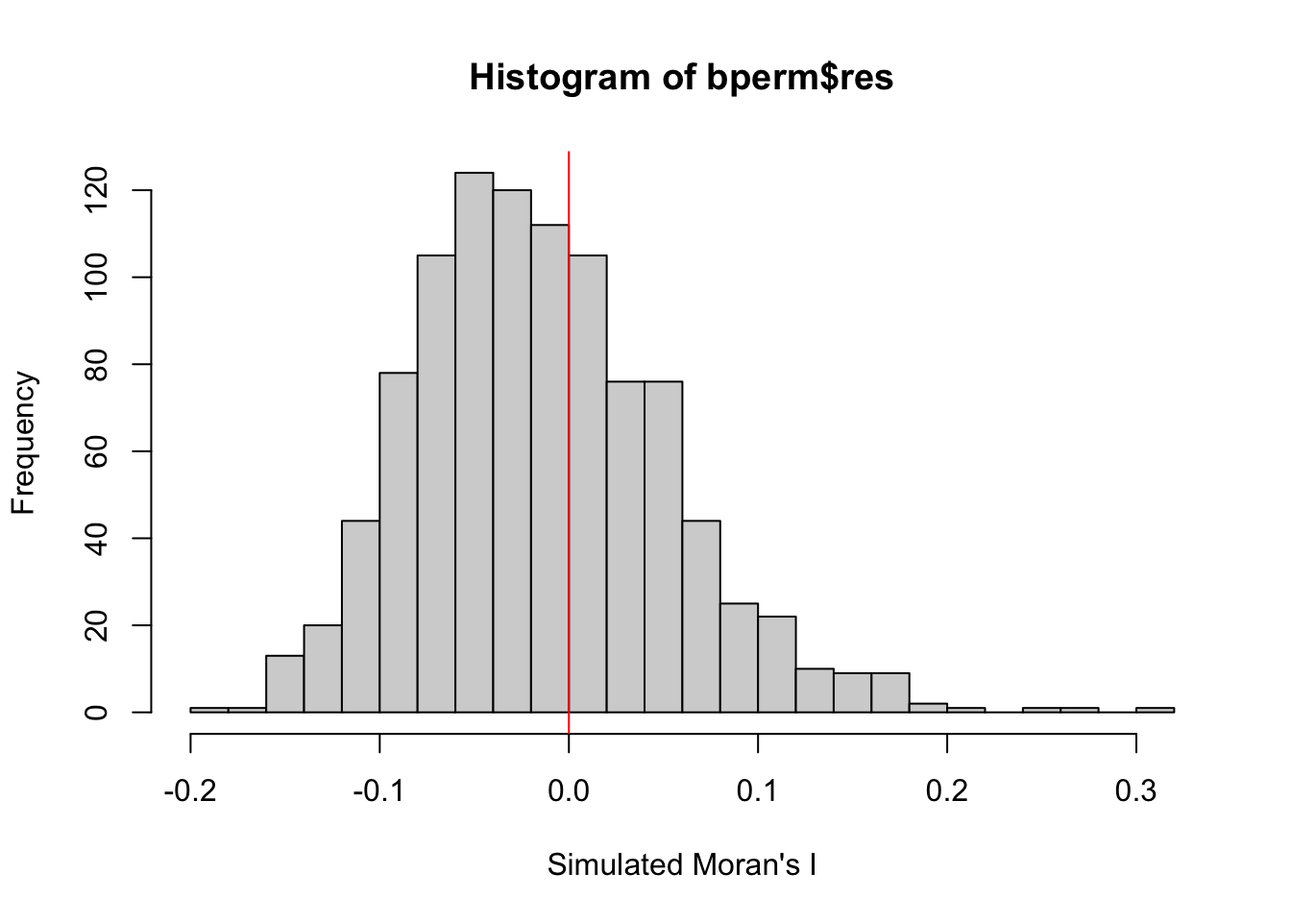
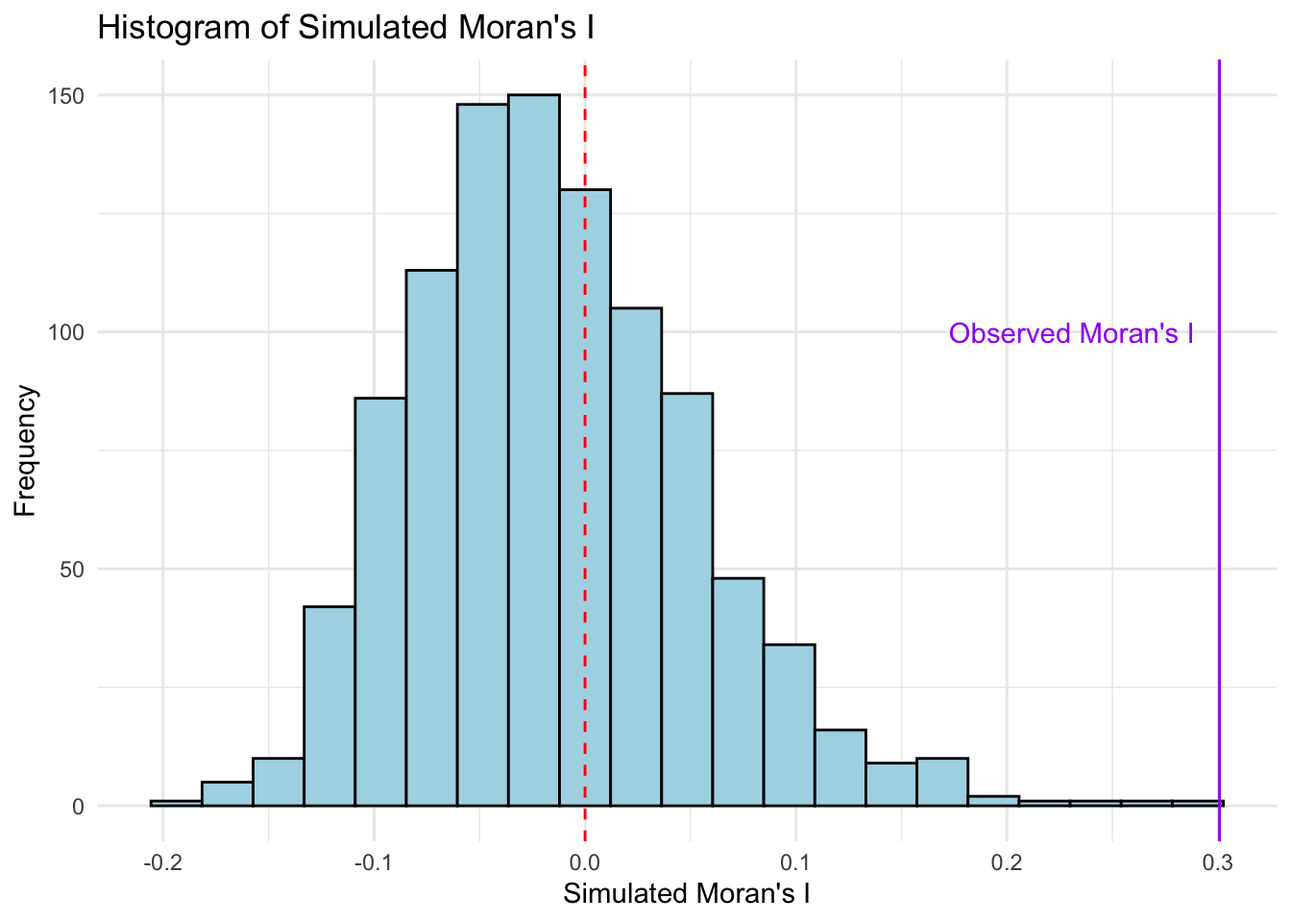
Tidied up the write-up for Hands-on Ex 5A

diff --git a/_site/Hands-on_Ex/Hands-on_Ex05/Hands-on_Ex05A.html b/_site/Hands-on_Ex/Hands-on_Ex05/Hands-on_Ex05A.html
@@ -225,7 +225,13 @@ pre > code.sourceCode > span > a:first-child::before { text-decoration: underlin
   <li><a href="#overview" id="toc-overview" class="nav-link active" data-scroll-target="#overview">1. Overview</a></li>
   <li><a href="#importing-transforming-data" id="toc-importing-transforming-data" class="nav-link" data-scroll-target="#importing-transforming-data">2. Importing &amp; Transforming Data</a></li>
   <li><a href="#geovisualisation-choropleth-map" id="toc-geovisualisation-choropleth-map" class="nav-link" data-scroll-target="#geovisualisation-choropleth-map">3. Geovisualisation &amp; Choropleth Map</a></li>
-  <li><a href="#global-measures-of-spatial-autocorrelation" id="toc-global-measures-of-spatial-autocorrelation" class="nav-link" data-scroll-target="#global-measures-of-spatial-autocorrelation">4. Global Measures of Spatial Autocorrelation</a></li>
+  <li><a href="#preparing-for-global-measures-of-spatial-autocorrelation" id="toc-preparing-for-global-measures-of-spatial-autocorrelation" class="nav-link" data-scroll-target="#preparing-for-global-measures-of-spatial-autocorrelation">4. Preparing for Global Measures of Spatial Autocorrelation</a></li>
+  <li><a href="#gmsa-morans-i" id="toc-gmsa-morans-i" class="nav-link" data-scroll-target="#gmsa-morans-i">5. GMSA: Moran’s I</a></li>
+  <li><a href="#gmsa-gearys-c" id="toc-gmsa-gearys-c" class="nav-link" data-scroll-target="#gmsa-gearys-c">6. GMSA: Geary’s C</a></li>
+  <li><a href="#spatial-correlogram" id="toc-spatial-correlogram" class="nav-link" data-scroll-target="#spatial-correlogram">7. Spatial Correlogram</a>
+  <ul class="collapse">
+  <li><a href="#gearys-c-correlogram" id="toc-gearys-c-correlogram" class="nav-link" data-scroll-target="#gearys-c-correlogram">2. Geary’s C correlogram</a></li>
+  </ul></li>
   </ul>
 </nav>
     </div>
@@ -270,8 +276,10 @@ pre > code.sourceCode > span > a:first-child::before { text-decoration: underlin
 
 <section id="overview" class="level1">
 <h1>1. Overview</h1>
-<p>This exercise introduces methods for computing Global Measures of Spatial Autocorrelation (GMSA).</p>
-<p>A key R package for computing GMSA is the <code>spdep</code> package.</p>
+<p>This exercise introduces methods for computing <strong>Global Measures of Spatial Autocorrelation (GMSA).</strong> GMSA provides a summary of the overall spatial patterns within a dataset, showing whether similar values cluster together or if there is a random distribution across the entire map.</p>
+<p>Spatial autocorrelation measures how one location’s data is related to nearby locations. With global measures, we look at the entire dataset as a whole, asking questions like: Are similar values (high or low) generally located near each other? Or are values spread out randomly? GMSA gives us a single statistic that answers these questions, giving insight into the spatial structure of our data.</p>
+<p>One common example is Moran’s I, a widely used GMSA method. It provides a value that indicates whether there is clustering (positive autocorrelation), a dispersed pattern (negative autocorrelation), or no clear pattern (no autocorrelation). These global measures help us identify broad spatial trends, which we can later break down into more detailed local measures.</p>
+<p>A key R package for GMSA analysis is the <code>spdep</code> package.</p>
 <div class="cell">
 <div class="sourceCode cell-code" id="cb1"><pre class="sourceCode r code-with-copy"><code class="sourceCode r"><span id="cb1-1"><a href="#cb1-1" aria-hidden="true" tabindex="-1"></a>pacman<span class="sc">::</span><span class="fu">p_load</span>(sf, spdep, tmap, tidyverse)</span></code><button title="Copy to Clipboard" class="code-copy-button"><i class="bi"></i></button></pre></div>
 </div>
@@ -376,7 +384,7 @@ $ geometry  &lt;POLYGON [°]&gt; POLYGON ((112.0625 29.75523..., POLYGON ((112.2
 </section>
 <section id="geovisualisation-choropleth-map" class="level1">
 <h1>3. Geovisualisation &amp; Choropleth Map</h1>
-<p>A basemap and a choropleth map displaying GDP per capita are plotted.</p>
+<p>A basemap and a choropleth map showing the distribution of GDP per capita are plotted.</p>
 <div class="cell">
 <div class="sourceCode cell-code" id="cb11"><pre class="sourceCode r code-with-copy"><code class="sourceCode r"><span id="cb11-1"><a href="#cb11-1" aria-hidden="true" tabindex="-1"></a>equal <span class="ot">&lt;-</span> <span class="fu">tm_shape</span>(hunan) <span class="sc">+</span></span>
 <span id="cb11-2"><a href="#cb11-2" aria-hidden="true" tabindex="-1"></a>  <span class="fu">tm_fill</span>(<span class="st">"GDPPC"</span>,</span>
@@ -401,8 +409,15 @@ $ geometry  &lt;POLYGON [°]&gt; POLYGON ((112.0625 29.75523..., POLYGON ((112.2
 </div>
 </div>
 </section>
-<section id="global-measures-of-spatial-autocorrelation" class="level1">
-<h1>4. Global Measures of Spatial Autocorrelation</h1>
+<section id="preparing-for-global-measures-of-spatial-autocorrelation" class="level1">
+<h1>4. Preparing for Global Measures of Spatial Autocorrelation</h1>
+<p>Before we can compute global spatial autocorrelation statistics, we need to perform the following steps:</p>
+<div class="tabset-margin-container"></div><div class="panel-tabset">
+<ul class="nav nav-tabs" role="tablist"><li class="nav-item" role="presentation"><a class="nav-link active" id="tabset-2-1-tab" data-bs-toggle="tab" data-bs-target="#tabset-2-1" role="tab" aria-controls="tabset-2-1" aria-selected="true">1. Compute contiguity spatial weights</a></li><li class="nav-item" role="presentation"><a class="nav-link" id="tabset-2-2-tab" data-bs-toggle="tab" data-bs-target="#tabset-2-2" role="tab" aria-controls="tabset-2-2" aria-selected="false">2. Compute row-standardised weights matrix</a></li></ul>
+<div class="tab-content">
+<div id="tabset-2-1" class="tab-pane active" role="tabpanel" aria-labelledby="tabset-2-1-tab">
+<p>Spatial weights define the neighborhood relationships between geographical units (e.g., counties) in the study area. In the code chunk below, the <code>poly2nb()</code> function from the <code>spdep</code> package is used to compute contiguity-based weight matrices for the study area. This function creates a list of neighboring regions by identifying those that share common boundaries. The following computes the Queen contiguity weight matrix.</p>
+<p>The summary report indicates that there are 88 area units in Hunan. The most connected unit has 11 neighboring units, while two units have only one neighbor each.</p>
 <div class="cell">
 <div class="sourceCode cell-code" id="cb12"><pre class="sourceCode r code-with-copy"><code class="sourceCode r"><span id="cb12-1"><a href="#cb12-1" aria-hidden="true" tabindex="-1"></a>wm_q <span class="ot">&lt;-</span> <span class="fu">poly2nb</span>(hunan, </span>
 <span id="cb12-2"><a href="#cb12-2" aria-hidden="true" tabindex="-1"></a>                <span class="at">queen=</span><span class="cn">TRUE</span>)</span>
@@ -423,7 +438,9 @@ Link number distribution:
 85 with 11 links</code></pre>
 </div>
 </div>
-<p>9.4.2</p>
+</div>
+<div id="tabset-2-2" class="tab-pane" role="tabpanel" aria-labelledby="tabset-2-2-tab">
+<p>Next, we need to assign weights to each neighboring polygon. In this case, we will use equal weights (style = “W”), meaning each neighbor receives a weight of 1/(no. of neighbors). These weights are then used to calculate the weighted sum of income values from neighboring counties. While this method is straightforward and intuitive, it has a limitation: polygons on the edges of the study area may have fewer neighbors, which can lead to over- or under-estimation of spatial autocorrelation. For simplicity, we’ll use the “W” option here, but it’s worth noting that more robust alternatives, such as style = “B”, are available.</p>
 <div class="cell">
 <div class="sourceCode cell-code" id="cb14"><pre class="sourceCode r code-with-copy"><code class="sourceCode r"><span id="cb14-1"><a href="#cb14-1" aria-hidden="true" tabindex="-1"></a>rswm_q <span class="ot">&lt;-</span> <span class="fu">nb2listw</span>(wm_q, </span>
 <span id="cb14-2"><a href="#cb14-2" aria-hidden="true" tabindex="-1"></a>                   <span class="at">style=</span><span class="st">"W"</span>, </span>
@@ -443,7 +460,18 @@ Weights constants summary:
 W 88 7744 88 37.86334 365.9147</code></pre>
 </div>
 </div>
-<p>9.5.1</p>
+</div>
+</div>
+</div>
+</section>
+<section id="gmsa-morans-i" class="level1">
+<h1>5. GMSA: Moran’s I</h1>
+<p>In this section, we will perform Moran’s I statistical testing.</p>
+<div class="tabset-margin-container"></div><div class="panel-tabset">
+<ul class="nav nav-tabs" role="tablist"><li class="nav-item" role="presentation"><a class="nav-link active" id="tabset-3-1-tab" data-bs-toggle="tab" data-bs-target="#tabset-3-1" role="tab" aria-controls="tabset-3-1" aria-selected="true">1. Moran’s I test</a></li><li class="nav-item" role="presentation"><a class="nav-link" id="tabset-3-2-tab" data-bs-toggle="tab" data-bs-target="#tabset-3-2" role="tab" aria-controls="tabset-3-2" aria-selected="false">2. Monte Carlo Moran’s I test</a></li><li class="nav-item" role="presentation"><a class="nav-link" id="tabset-3-3-tab" data-bs-toggle="tab" data-bs-target="#tabset-3-3" role="tab" aria-controls="tabset-3-3" aria-selected="false">3. Visualising Monte Carlo Moran’s I</a></li></ul>
+<div class="tab-content">
+<div id="tabset-3-1" class="tab-pane active" role="tabpanel" aria-labelledby="tabset-3-1-tab">
+<p>We conduct Moran’s I statistical test using the <code>moran.test()</code> function from the <code>spdep</code> package. From the results, Moran’s I is 0.30, which is greater than 0, indicating positive spatial autocorrelation. Since the p-value is less than .001, the result is statistically significant. This means that the observations are not randomly distributed but are spatially clustered, with similar values tending to be near each other.</p>
 <div class="cell">
 <div class="sourceCode cell-code" id="cb16"><pre class="sourceCode r code-with-copy"><code class="sourceCode r"><span id="cb16-1"><a href="#cb16-1" aria-hidden="true" tabindex="-1"></a><span class="fu">moran.test</span>(hunan<span class="sc">$</span>GDPPC, </span>
 <span id="cb16-2"><a href="#cb16-2" aria-hidden="true" tabindex="-1"></a>           <span class="at">listw=</span>rswm_q, </span>
@@ -463,10 +491,14 @@ Moran I statistic       Expectation          Variance
       0.300749970      -0.011494253       0.004348351 </code></pre>
 </div>
 </div>
-<p>9.5.2</p>
+</div>
+<div id="tabset-3-2" class="tab-pane" role="tabpanel" aria-labelledby="tabset-3-2-tab">
+<p>The Monte Carlo Moran’s I test is used to assess the significance of spatial autocorrelation by comparing the observed Moran’s I to a distribution of Moran’s I values generated through random permutations. It helps determine whether the observed spatial pattern is significantly different from what could be expected under randomness.</p>
+<p>A permutation test for Moran’s I statistic conducted using <code>moran.mc()</code> function from the <code>spdep</code> package, with 1,000 simulations. This Monte Carlo approach generates a distribution of Moran’s I values by randomly shuffling the spatial data and recalculating Moran’s I for each simulation. It allows us to compare the observed Moran’s I against this randomized distribution to assess its significance.</p>
+<p>From the results, the observed Moran’s I statistic is 0.30, which is greater than 0, indicating positive spatial autocorrelation. Since the p-value is 0.001, the result is statistically significant. This means that the observed spatial pattern is unlikely to have occurred by chance; there is spatial clustering, where similar values tend to be located near each other.</p>
 <div class="cell">
 <div class="sourceCode cell-code" id="cb18"><pre class="sourceCode r code-with-copy"><code class="sourceCode r"><span id="cb18-1"><a href="#cb18-1" aria-hidden="true" tabindex="-1"></a><span class="fu">set.seed</span>(<span class="dv">1234</span>)</span>
-<span id="cb18-2"><a href="#cb18-2" aria-hidden="true" tabindex="-1"></a>bperm<span class="ot">=</span> <span class="fu">moran.mc</span>(hunan<span class="sc">$</span>GDPPC, </span>
+<span id="cb18-2"><a href="#cb18-2" aria-hidden="true" tabindex="-1"></a>bperm <span class="ot">=</span> <span class="fu">moran.mc</span>(hunan<span class="sc">$</span>GDPPC, </span>
 <span id="cb18-3"><a href="#cb18-3" aria-hidden="true" tabindex="-1"></a>                <span class="at">listw=</span>rswm_q, </span>
 <span id="cb18-4"><a href="#cb18-4" aria-hidden="true" tabindex="-1"></a>                <span class="at">nsim=</span><span class="dv">999</span>, </span>
 <span id="cb18-5"><a href="#cb18-5" aria-hidden="true" tabindex="-1"></a>                <span class="at">zero.policy =</span> <span class="cn">TRUE</span>, </span>
@@ -484,7 +516,9 @@ statistic = 0.30075, observed rank = 1000, p-value = 0.001
 alternative hypothesis: greater</code></pre>
 </div>
 </div>
-<p>9.5.3</p>
+</div>
+<div id="tabset-3-3" class="tab-pane" role="tabpanel" aria-labelledby="tabset-3-3-tab">
+<p>It is good practice to examine the simulated Moran’s I test statistics in greater detail. This can be done by plotting the distribution of these values as a histogram.</p>
 <div class="cell">
 <div class="sourceCode cell-code" id="cb20"><pre class="sourceCode r code-with-copy"><code class="sourceCode r"><span id="cb20-1"><a href="#cb20-1" aria-hidden="true" tabindex="-1"></a><span class="fu">mean</span>(bperm<span class="sc">$</span>res[<span class="dv">1</span><span class="sc">:</span><span class="dv">999</span>])</span></code><button title="Copy to Clipboard" class="code-copy-button"><i class="bi"></i></button></pre></div>
 <div class="cell-output cell-output-stdout">
@@ -505,17 +539,33 @@ alternative hypothesis: greater</code></pre>
 </div>
 </div>
 <div class="cell">
-<div class="sourceCode cell-code" id="cb26"><pre class="sourceCode r code-with-copy"><code class="sourceCode r"><span id="cb26-1"><a href="#cb26-1" aria-hidden="true" tabindex="-1"></a><span class="fu">hist</span>(bperm<span class="sc">$</span>res, </span>
-<span id="cb26-2"><a href="#cb26-2" aria-hidden="true" tabindex="-1"></a>     <span class="at">freq=</span><span class="cn">TRUE</span>, </span>
-<span id="cb26-3"><a href="#cb26-3" aria-hidden="true" tabindex="-1"></a>     <span class="at">breaks=</span><span class="dv">20</span>, </span>
-<span id="cb26-4"><a href="#cb26-4" aria-hidden="true" tabindex="-1"></a>     <span class="at">xlab=</span><span class="st">"Simulated Moran's I"</span>)</span>
-<span id="cb26-5"><a href="#cb26-5" aria-hidden="true" tabindex="-1"></a><span class="fu">abline</span>(<span class="at">v=</span><span class="dv">0</span>, </span>
-<span id="cb26-6"><a href="#cb26-6" aria-hidden="true" tabindex="-1"></a>       <span class="at">col=</span><span class="st">"red"</span>) </span></code><button title="Copy to Clipboard" class="code-copy-button"><i class="bi"></i></button></pre></div>
+<div class="sourceCode cell-code" id="cb26"><pre class="sourceCode r code-with-copy"><code class="sourceCode r"><span id="cb26-1"><a href="#cb26-1" aria-hidden="true" tabindex="-1"></a>data <span class="ot">&lt;-</span> <span class="fu">data.frame</span>(<span class="at">simulated_I =</span> bperm<span class="sc">$</span>res)</span>
+<span id="cb26-2"><a href="#cb26-2" aria-hidden="true" tabindex="-1"></a></span>
+<span id="cb26-3"><a href="#cb26-3" aria-hidden="true" tabindex="-1"></a><span class="co"># Plot the histogram using ggplot2</span></span>
+<span id="cb26-4"><a href="#cb26-4" aria-hidden="true" tabindex="-1"></a><span class="fu">ggplot</span>(data, <span class="fu">aes</span>(<span class="at">x =</span> simulated_I)) <span class="sc">+</span></span>
+<span id="cb26-5"><a href="#cb26-5" aria-hidden="true" tabindex="-1"></a>  <span class="fu">geom_histogram</span>(<span class="at">binwidth =</span> <span class="fu">diff</span>(<span class="fu">range</span>(bperm<span class="sc">$</span>res))<span class="sc">/</span><span class="dv">20</span>, <span class="at">fill=</span><span class="st">"lightblue"</span>, <span class="at">color=</span><span class="st">"black"</span>) <span class="sc">+</span></span>
+<span id="cb26-6"><a href="#cb26-6" aria-hidden="true" tabindex="-1"></a>  <span class="fu">geom_vline</span>(<span class="at">xintercept =</span> <span class="dv">0</span>, <span class="at">color =</span> <span class="st">"red"</span>, <span class="at">linetype =</span> <span class="st">"dashed"</span>) <span class="sc">+</span></span>
+<span id="cb26-7"><a href="#cb26-7" aria-hidden="true" tabindex="-1"></a>  <span class="fu">geom_vline</span>(<span class="at">xintercept =</span> <span class="fl">0.30075</span>, <span class="at">color =</span> <span class="st">"purple"</span>) <span class="sc">+</span></span>
+<span id="cb26-8"><a href="#cb26-8" aria-hidden="true" tabindex="-1"></a>  <span class="fu">annotate</span>(<span class="st">"text"</span>, <span class="at">x =</span> <span class="fl">0.30075</span>, <span class="at">y =</span> <span class="dv">100</span>,</span>
+<span id="cb26-9"><a href="#cb26-9" aria-hidden="true" tabindex="-1"></a>           <span class="at">label =</span> <span class="st">"Observed Moran's I"</span>, <span class="at">color =</span> <span class="st">"purple"</span>, <span class="at">vjust =</span> <span class="fl">0.5</span>, <span class="at">hjust =</span> <span class="fl">1.1</span>) <span class="sc">+</span></span>
+<span id="cb26-10"><a href="#cb26-10" aria-hidden="true" tabindex="-1"></a>  <span class="fu">labs</span>(<span class="at">x =</span> <span class="st">"Simulated Moran's I"</span>, <span class="at">y =</span> <span class="st">"Frequency"</span>, <span class="at">title =</span> <span class="st">"Histogram of Simulated Moran's I"</span>) <span class="sc">+</span></span>
+<span id="cb26-11"><a href="#cb26-11" aria-hidden="true" tabindex="-1"></a>  <span class="fu">theme_minimal</span>()</span></code><button title="Copy to Clipboard" class="code-copy-button"><i class="bi"></i></button></pre></div>
 <div class="cell-output-display">
 <p><img src="Hands-on_Ex05A_files/figure-html/unnamed-chunk-13-1.png" class="img-fluid" width="672"></p>
 </div>
 </div>
-<p>9.6.1</p>
+</div>
+</div>
+</div>
+</section>
+<section id="gmsa-gearys-c" class="level1">
+<h1>6. GMSA: Geary’s C</h1>
+<p>In this section, we will perform Geary’s C statistical testing.</p>
+<div class="tabset-margin-container"></div><div class="panel-tabset">
+<ul class="nav nav-tabs" role="tablist"><li class="nav-item" role="presentation"><a class="nav-link active" id="tabset-4-1-tab" data-bs-toggle="tab" data-bs-target="#tabset-4-1" role="tab" aria-controls="tabset-4-1" aria-selected="true">1. Geary’s C test</a></li><li class="nav-item" role="presentation"><a class="nav-link" id="tabset-4-2-tab" data-bs-toggle="tab" data-bs-target="#tabset-4-2" role="tab" aria-controls="tabset-4-2" aria-selected="false">2. Monte Carlo Geary’s C test</a></li><li class="nav-item" role="presentation"><a class="nav-link" id="tabset-4-3-tab" data-bs-toggle="tab" data-bs-target="#tabset-4-3" role="tab" aria-controls="tabset-4-3" aria-selected="false">3. Visualising Monte Carlo Geary’s C</a></li></ul>
+<div class="tab-content">
+<div id="tabset-4-1" class="tab-pane active" role="tabpanel" aria-labelledby="tabset-4-1-tab">
+<p>We conduct Geary’s C statistical test using the <code>geary.test()</code> function from the <code>spdep</code> package. From the results, Geary’s C is 0.69, which is less than 1. This indicates positive spatial autocorrelation, meaning that neighboring areas tend to have similar values. Since the p-value is less than 0.001, the result is statistically significant, suggesting that the observed spatial pattern is unlikely due to random chance. Therefore, the data shows spatial clustering, where similar values tend to be located near each other.</p>
 <div class="cell">
 <div class="sourceCode cell-code" id="cb27"><pre class="sourceCode r code-with-copy"><code class="sourceCode r"><span id="cb27-1"><a href="#cb27-1" aria-hidden="true" tabindex="-1"></a><span class="fu">geary.test</span>(hunan<span class="sc">$</span>GDPPC, <span class="at">listw=</span>rswm_q)</span></code><button title="Copy to Clipboard" class="code-copy-button"><i class="bi"></i></button></pre></div>
 <div class="cell-output cell-output-stdout">
@@ -532,10 +582,13 @@ Geary C statistic       Expectation          Variance
         0.6907223         1.0000000         0.0073364 </code></pre>
 </div>
 </div>
-<p>9.6.2</p>
+</div>
+<div id="tabset-4-2" class="tab-pane" role="tabpanel" aria-labelledby="tabset-4-2-tab">
+<p>A permutation test for Geary’s C statistic was conducted using the <code>geary.mc()</code> function from the <code>spdep</code> package, with 1,000 simulations. This Monte Carlo approach creates a distribution of Geary’s C values by randomly shuffling the spatial data and recalculating Geary’s C for each simulation. This allows us to compare the observed Geary’s C against the randomized distribution to assess the significance of the spatial autocorrelation.</p>
+<p>From the results, the observed Geary’s C statistic is 0.69, which is less than 1, indicating positive spatial autocorrelation. Since the p-value is 0.001, the result is statistically significant, meaning the observed spatial pattern is unlikely to have occurred by chance. Therefore, the data shows spatial clustering, where similar values are more likely to be found near each other.</p>
 <div class="cell">
 <div class="sourceCode cell-code" id="cb29"><pre class="sourceCode r code-with-copy"><code class="sourceCode r"><span id="cb29-1"><a href="#cb29-1" aria-hidden="true" tabindex="-1"></a><span class="fu">set.seed</span>(<span class="dv">1234</span>)</span>
-<span id="cb29-2"><a href="#cb29-2" aria-hidden="true" tabindex="-1"></a>bperm<span class="ot">=</span><span class="fu">geary.mc</span>(hunan<span class="sc">$</span>GDPPC, </span>
+<span id="cb29-2"><a href="#cb29-2" aria-hidden="true" tabindex="-1"></a>bperm <span class="ot">=</span> <span class="fu">geary.mc</span>(hunan<span class="sc">$</span>GDPPC, </span>
 <span id="cb29-3"><a href="#cb29-3" aria-hidden="true" tabindex="-1"></a>               <span class="at">listw=</span>rswm_q, </span>
 <span id="cb29-4"><a href="#cb29-4" aria-hidden="true" tabindex="-1"></a>               <span class="at">nsim=</span><span class="dv">999</span>)</span>
 <span id="cb29-5"><a href="#cb29-5" aria-hidden="true" tabindex="-1"></a>bperm</span></code><button title="Copy to Clipboard" class="code-copy-button"><i class="bi"></i></button></pre></div>
@@ -551,7 +604,9 @@ statistic = 0.69072, observed rank = 1, p-value = 0.001
 alternative hypothesis: greater</code></pre>
 </div>
 </div>
-<p>9.6.3</p>
+</div>
+<div id="tabset-4-3" class="tab-pane" role="tabpanel" aria-labelledby="tabset-4-3-tab">
+<p>Next, we plot a histogram to reveal the distribution of the simulated values.</p>
 <div class="cell">
 <div class="sourceCode cell-code" id="cb31"><pre class="sourceCode r code-with-copy"><code class="sourceCode r"><span id="cb31-1"><a href="#cb31-1" aria-hidden="true" tabindex="-1"></a><span class="fu">mean</span>(bperm<span class="sc">$</span>res[<span class="dv">1</span><span class="sc">:</span><span class="dv">999</span>])</span></code><button title="Copy to Clipboard" class="code-copy-button"><i class="bi"></i></button></pre></div>
 <div class="cell-output cell-output-stdout">
@@ -572,13 +627,29 @@ alternative hypothesis: greater</code></pre>
 </div>
 </div>
 <div class="cell">
-<div class="sourceCode cell-code" id="cb37"><pre class="sourceCode r code-with-copy"><code class="sourceCode r"><span id="cb37-1"><a href="#cb37-1" aria-hidden="true" tabindex="-1"></a><span class="fu">hist</span>(bperm<span class="sc">$</span>res, <span class="at">freq=</span><span class="cn">TRUE</span>, <span class="at">breaks=</span><span class="dv">20</span>, <span class="at">xlab=</span><span class="st">"Simulated Geary c"</span>)</span>
-<span id="cb37-2"><a href="#cb37-2" aria-hidden="true" tabindex="-1"></a><span class="fu">abline</span>(<span class="at">v=</span><span class="dv">1</span>, <span class="at">col=</span><span class="st">"red"</span>) </span></code><button title="Copy to Clipboard" class="code-copy-button"><i class="bi"></i></button></pre></div>
+<div class="sourceCode cell-code" id="cb37"><pre class="sourceCode r code-with-copy"><code class="sourceCode r"><span id="cb37-1"><a href="#cb37-1" aria-hidden="true" tabindex="-1"></a>data <span class="ot">&lt;-</span> <span class="fu">data.frame</span>(<span class="at">simulated_C =</span> bperm<span class="sc">$</span>res)</span>
+<span id="cb37-2"><a href="#cb37-2" aria-hidden="true" tabindex="-1"></a></span>
+<span id="cb37-3"><a href="#cb37-3" aria-hidden="true" tabindex="-1"></a><span class="co"># Plot the histogram using ggplot2</span></span>
+<span id="cb37-4"><a href="#cb37-4" aria-hidden="true" tabindex="-1"></a><span class="fu">ggplot</span>(data, <span class="fu">aes</span>(<span class="at">x =</span> simulated_C)) <span class="sc">+</span></span>
+<span id="cb37-5"><a href="#cb37-5" aria-hidden="true" tabindex="-1"></a>  <span class="fu">geom_histogram</span>(<span class="at">binwidth =</span> <span class="fu">diff</span>(<span class="fu">range</span>(bperm<span class="sc">$</span>res))<span class="sc">/</span><span class="dv">20</span>, <span class="at">fill=</span><span class="st">"lightblue"</span>, <span class="at">color=</span><span class="st">"black"</span>) <span class="sc">+</span></span>
+<span id="cb37-6"><a href="#cb37-6" aria-hidden="true" tabindex="-1"></a>  <span class="fu">geom_vline</span>(<span class="at">xintercept =</span> <span class="dv">1</span>, <span class="at">color =</span> <span class="st">"red"</span>, <span class="at">linetype =</span> <span class="st">"dashed"</span>) <span class="sc">+</span></span>
+<span id="cb37-7"><a href="#cb37-7" aria-hidden="true" tabindex="-1"></a>  <span class="fu">geom_vline</span>(<span class="at">xintercept =</span> <span class="fl">0.69072</span>, <span class="at">color =</span> <span class="st">"purple"</span>) <span class="sc">+</span></span>
+<span id="cb37-8"><a href="#cb37-8" aria-hidden="true" tabindex="-1"></a>  <span class="fu">annotate</span>(<span class="st">"text"</span>, <span class="at">x =</span> <span class="fl">0.69072</span>, <span class="at">y =</span> <span class="dv">100</span>,</span>
+<span id="cb37-9"><a href="#cb37-9" aria-hidden="true" tabindex="-1"></a>           <span class="at">label =</span> <span class="st">"Observed Geary's C"</span>, <span class="at">color =</span> <span class="st">"purple"</span>, <span class="at">vjust =</span> <span class="fl">0.5</span>, <span class="at">hjust =</span> <span class="sc">-</span><span class="fl">0.1</span>) <span class="sc">+</span></span>
+<span id="cb37-10"><a href="#cb37-10" aria-hidden="true" tabindex="-1"></a>  <span class="fu">labs</span>(<span class="at">x =</span> <span class="st">"Simulated Geary's C"</span>, <span class="at">y =</span> <span class="st">"Frequency"</span>, <span class="at">title =</span> <span class="st">"Histogram of Simulated Geary's C"</span>) <span class="sc">+</span></span>
+<span id="cb37-11"><a href="#cb37-11" aria-hidden="true" tabindex="-1"></a>  <span class="fu">theme_minimal</span>()</span></code><button title="Copy to Clipboard" class="code-copy-button"><i class="bi"></i></button></pre></div>
 <div class="cell-output-display">
 <p><img src="Hands-on_Ex05A_files/figure-html/unnamed-chunk-19-1.png" class="img-fluid" width="672"></p>
 </div>
 </div>
-<p>9.7.1</p>
+</div>
+</div>
+</div>
+</section>
+<section id="spatial-correlogram" class="level1">
+<h1>7. Spatial Correlogram</h1>
+<p>A <strong>spatial correlogram</strong> is a tool used to assess and visualize spatial autocorrelation against increasing distances (lags) between spatial observations. It plots a measure of spatial autocorrelation, such as Moran’s I or Geary’s C, against distance, allowing us to see how relationships between spatial observations change as the distance between them increases. Correlograms help identify how far spatial dependence extends and whether it weakens, strengthens, or fluctuates with distance.</p>
+<p>::: panel-tabset ## 1. Moran’s I correlogram The <code>sp.correlogram()</code> function from the <code>spdep</code> package is used to compute a 6-lag spatial correlogram for GDP per capita (GDPPC), with Moran’s I as the measure of global spatial autocorrelation.</p>
 <div class="cell">
 <div class="sourceCode cell-code" id="cb38"><pre class="sourceCode r code-with-copy"><code class="sourceCode r"><span id="cb38-1"><a href="#cb38-1" aria-hidden="true" tabindex="-1"></a>MI_corr <span class="ot">&lt;-</span> <span class="fu">sp.correlogram</span>(wm_q, </span>
 <span id="cb38-2"><a href="#cb38-2" aria-hidden="true" tabindex="-1"></a>                          hunan<span class="sc">$</span>GDPPC, </span>
@@ -590,6 +661,8 @@ alternative hypothesis: greater</code></pre>
 <p><img src="Hands-on_Ex05A_files/figure-html/unnamed-chunk-20-1.png" class="img-fluid" width="672"></p>
 </div>
 </div>
+<p>Plotting the output alone may not provide a complete interpretation, as not all autocorrelation values are statistically significant. Therefore, it’s important to review the full analysis by printing the results, as shown in the code chunk below.</p>
+<p>The results reveal that: - <strong>Spatial Clustering at Short Distances:</strong> There is evidence of spatial clustering of similar GDP per capita values within shorter distances (lags 1-3). Neighboring areas are likely to have similar economic performance. - <strong>Diminishing Spatial Autocorrelation with Distance:</strong> Beyond lag 3, spatial autocorrelation weakens and eventually becomes insignificant at larger distances. This suggests that the relationship between neighboring areas becomes weaker as the distance between them increases.</p>
 <div class="cell">
 <div class="sourceCode cell-code" id="cb39"><pre class="sourceCode r code-with-copy"><code class="sourceCode r"><span id="cb39-1"><a href="#cb39-1" aria-hidden="true" tabindex="-1"></a><span class="fu">print</span>(MI_corr)</span></code><button title="Copy to Clipboard" class="code-copy-button"><i class="bi"></i></button></pre></div>
 <div class="cell-output cell-output-stdout">
@@ -606,7 +679,9 @@ method: Moran's I
 Signif. codes:  0 '***' 0.001 '**' 0.01 '*' 0.05 '.' 0.1 ' ' 1</code></pre>
 </div>
 </div>
-<p>9.7.2</p>
+<section id="gearys-c-correlogram" class="level2">
+<h2 class="anchored" data-anchor-id="gearys-c-correlogram">2. Geary’s C correlogram</h2>
+<p>In the code chunk below, the <code>sp.correlogram()</code> function from the <code>spdep</code> package is used to compute a 6-lag spatial correlogram for GDP per capita (GDPPC), using Geary’s C as the measure of global spatial autocorrelation.</p>
 <div class="cell">
 <div class="sourceCode cell-code" id="cb41"><pre class="sourceCode r code-with-copy"><code class="sourceCode r"><span id="cb41-1"><a href="#cb41-1" aria-hidden="true" tabindex="-1"></a>GC_corr <span class="ot">&lt;-</span> <span class="fu">sp.correlogram</span>(wm_q, </span>
 <span id="cb41-2"><a href="#cb41-2" aria-hidden="true" tabindex="-1"></a>                          hunan<span class="sc">$</span>GDPPC, </span>
@@ -618,6 +693,7 @@ Signif. codes:  0 '***' 0.001 '**' 0.01 '*' 0.05 '.' 0.1 ' ' 1</code></pre>
 <p><img src="Hands-on_Ex05A_files/figure-html/unnamed-chunk-22-1.png" class="img-fluid" width="672"></p>
 </div>
 </div>
+<p>The results reveal that: - <strong>Spatial Clustering at Short Distances:</strong> There is evidence of spatial clustering of similar GDP per capita values within shorter distances (lags 1-2). Neighboring areas are likely to have similar economic performance. - <strong>Diminishing Spatial Autocorrelation with Distance:</strong> Beyond lag 2, spatial autocorrelation weakens and eventually becomes insignificant at larger distances. This suggests that the relationship between neighboring areas becomes weaker as the distance between them increases.</p>
 <div class="cell">
 <div class="sourceCode cell-code" id="cb42"><pre class="sourceCode r code-with-copy"><code class="sourceCode r"><span id="cb42-1"><a href="#cb42-1" aria-hidden="true" tabindex="-1"></a><span class="fu">print</span>(GC_corr)</span></code><button title="Copy to Clipboard" class="code-copy-button"><i class="bi"></i></button></pre></div>
 <div class="cell-output cell-output-stdout">
@@ -636,6 +712,7 @@ Signif. codes:  0 '***' 0.001 '**' 0.01 '*' 0.05 '.' 0.1 ' ' 1</code></pre>
 </div>
 
 
+</section>
 </section>
 
 </main> <!-- /main -->
